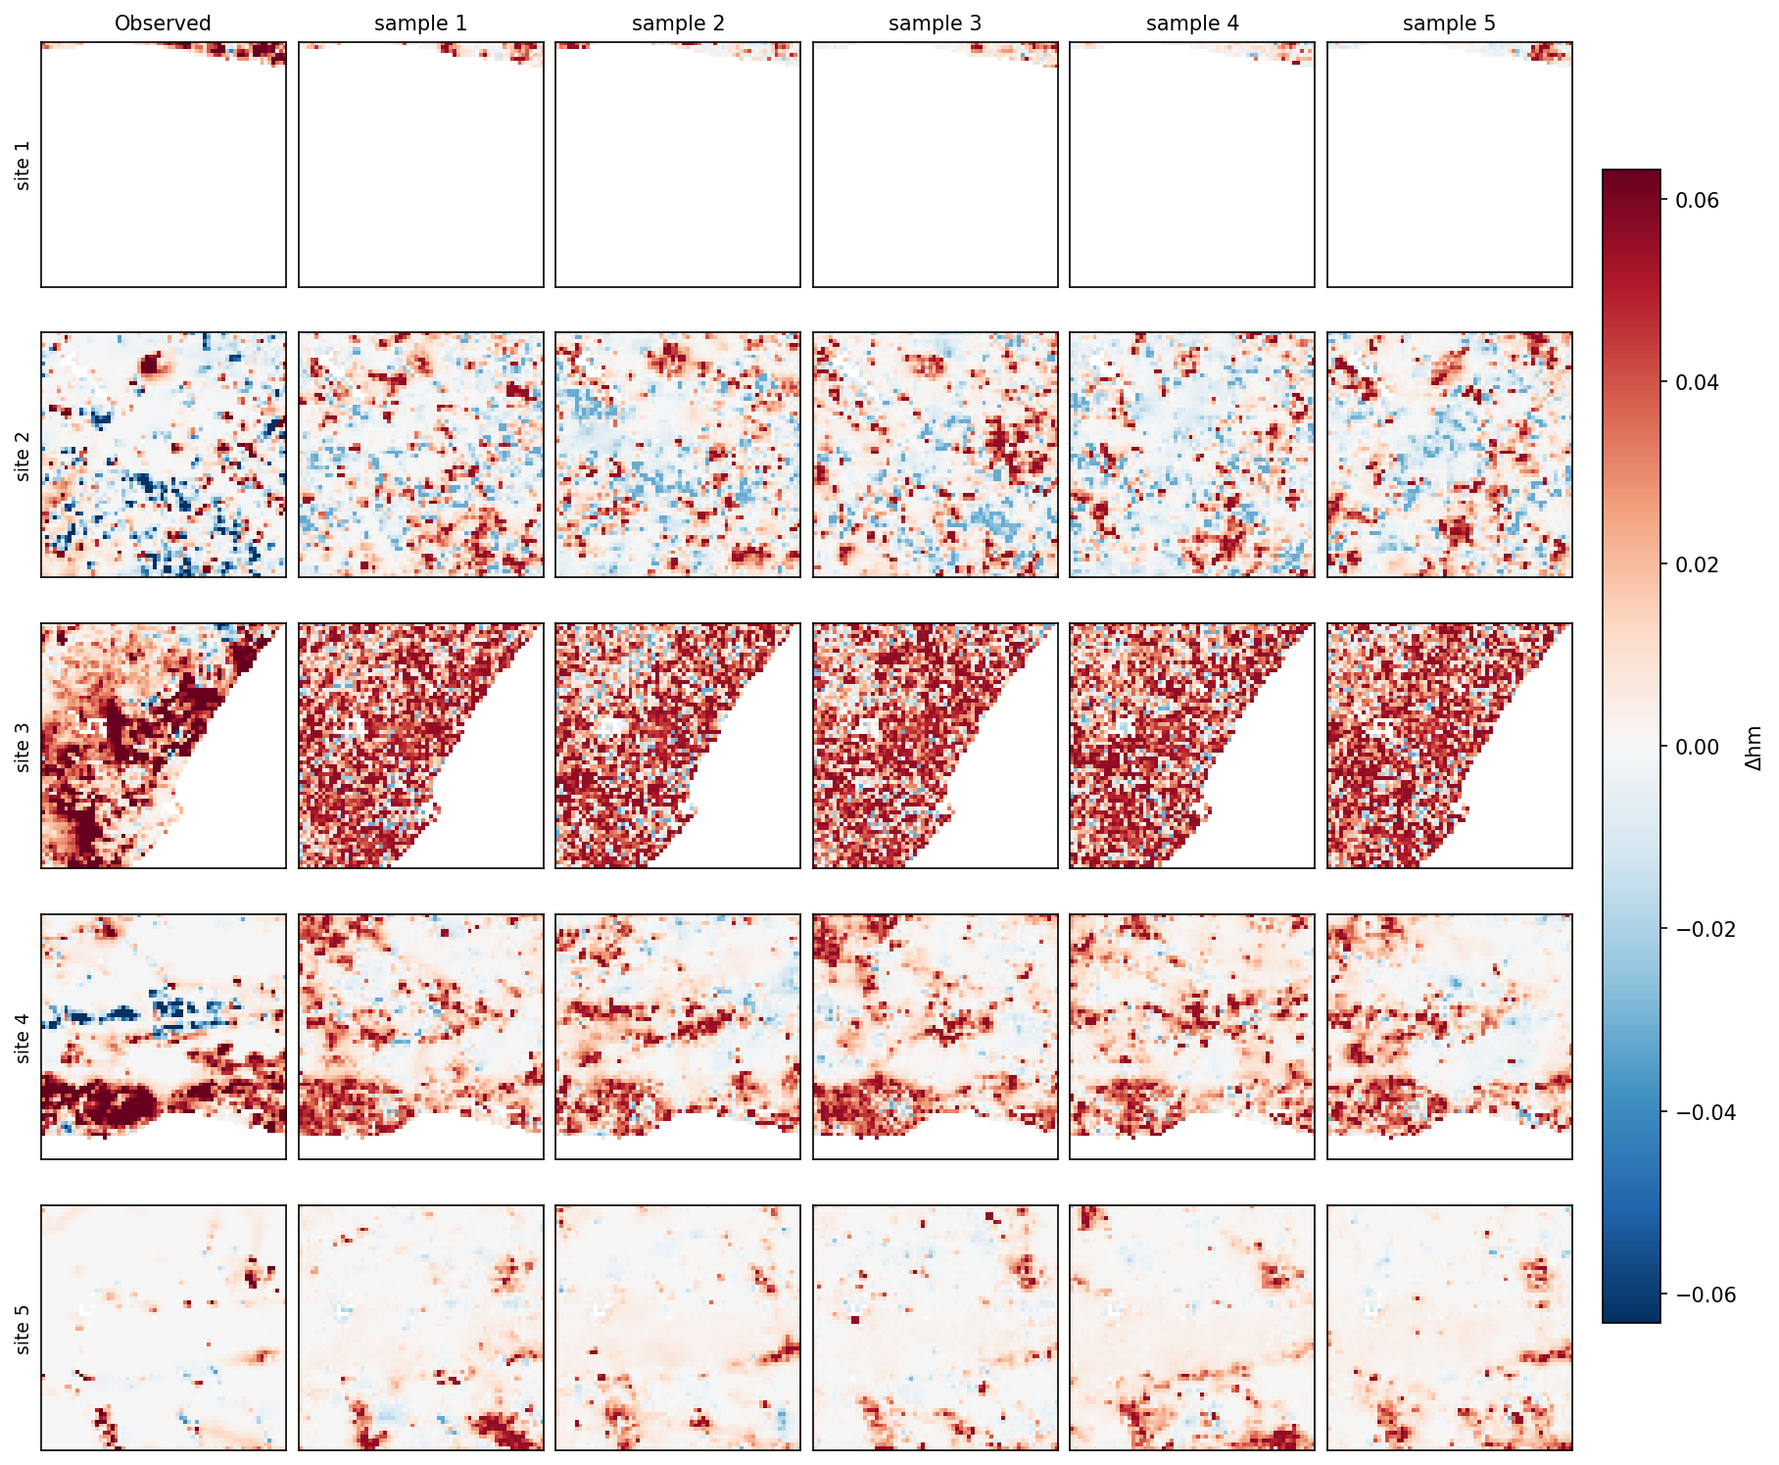
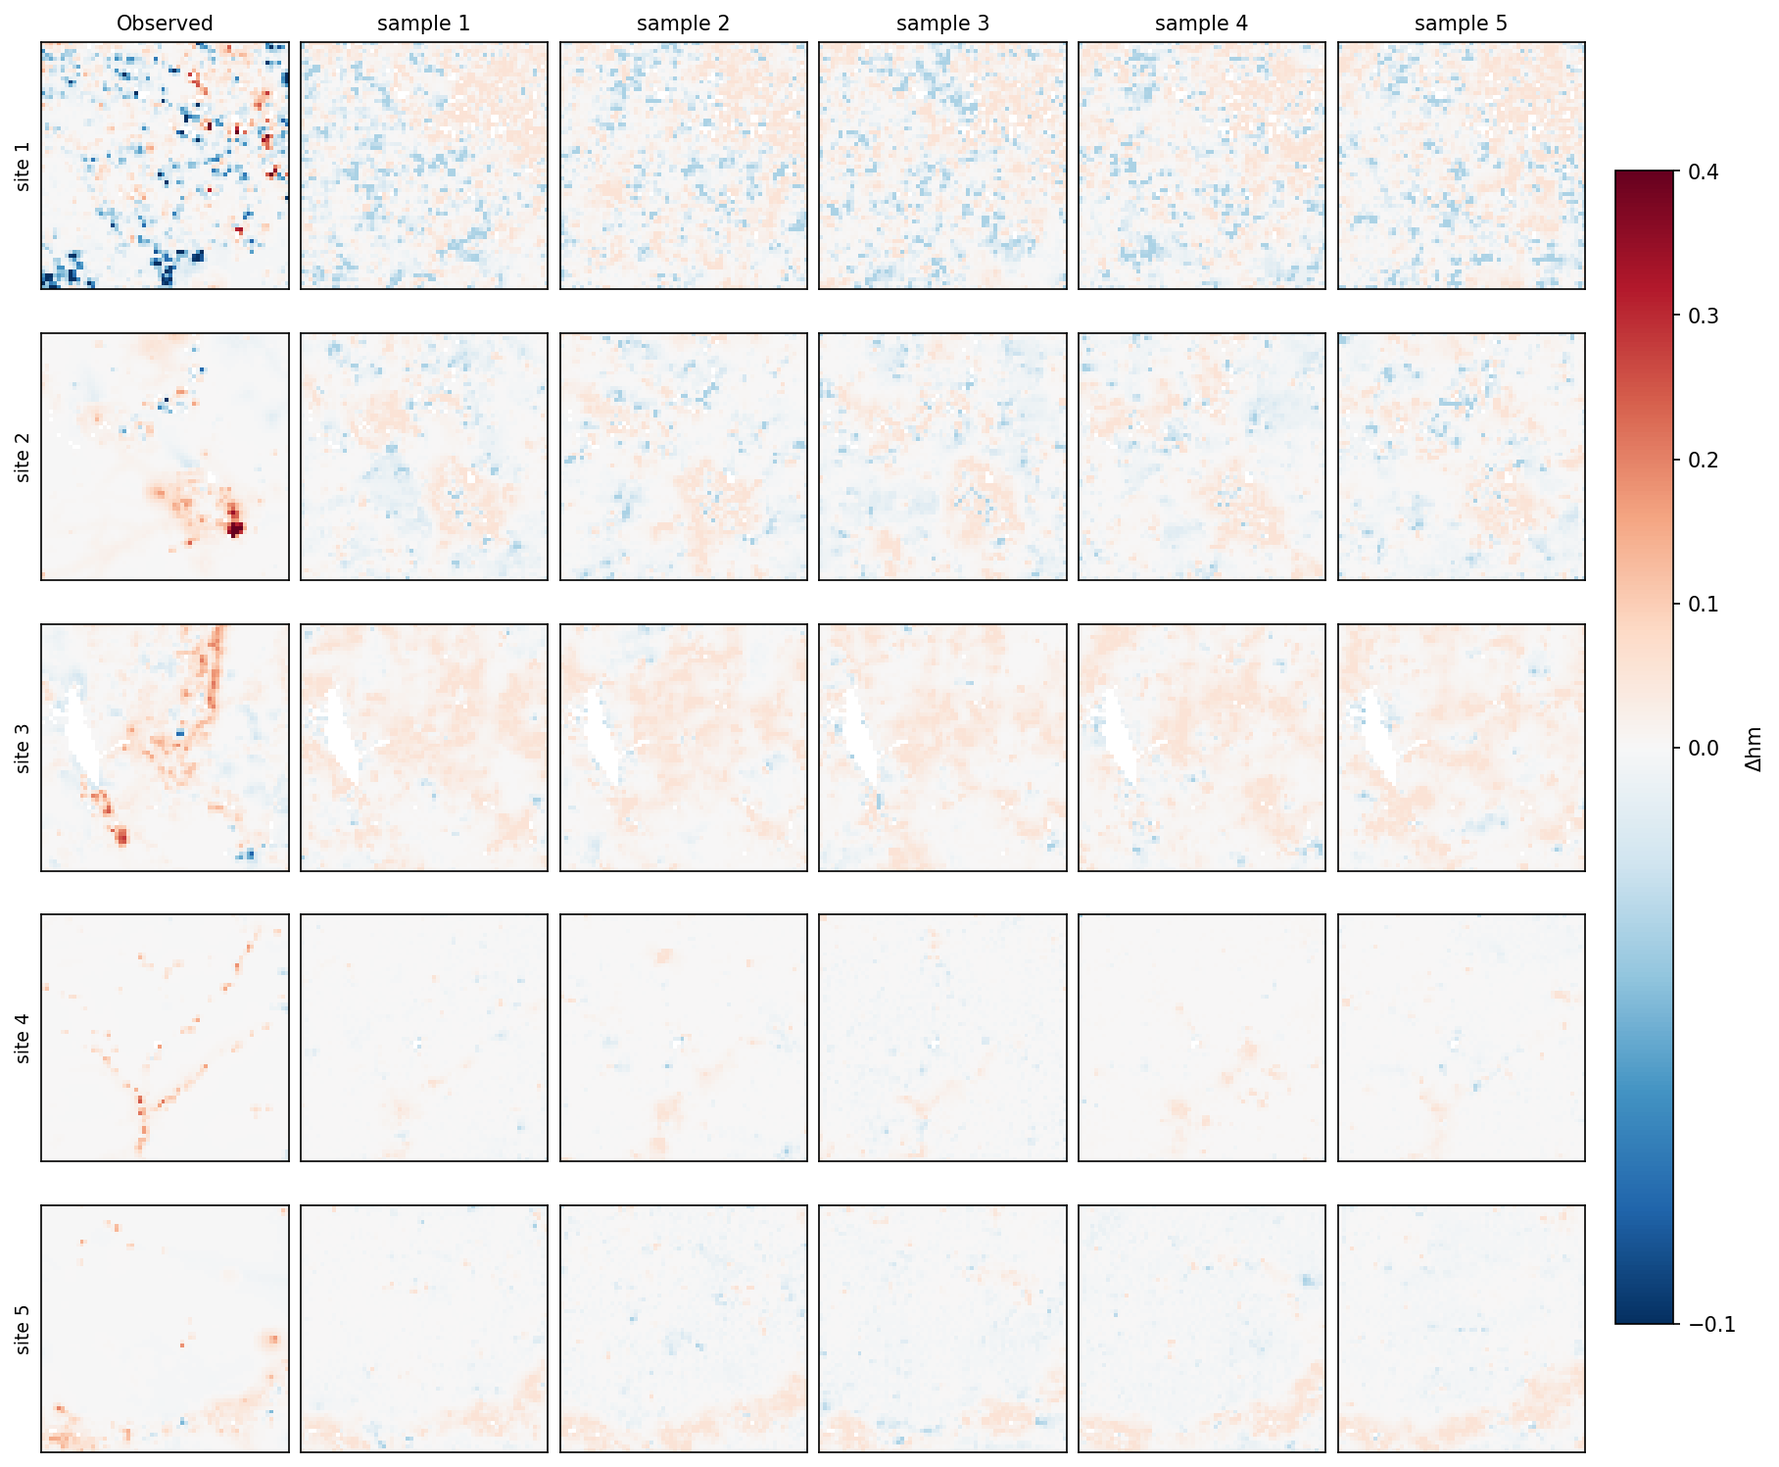
feat: add precomputed IDW spatial-context channels to diffusion conditioning
Extend the component variable list with inverse-distance weighted HM channels (idw15, idw51) when target_mode='delta_20yr'. The IDW rasters are precomputed via scripts/preprocess_idw.py and live alongside the original HM_AA / component files. Each IDW channel captures neighborhood modification pressure at a different scale (15 km vs 51 km radius) by convolving HM with a 1/distance kernel.

- Update HumanFootprintChipDataset

diff --git a/scripts/torchgeo_dataloader.py b/scripts/torchgeo_dataloader.py
@@ -44,6 +44,38 @@ static_files = [
 import numpy as np
 import rasterio
 
+
+def _make_idw_kernels(sizes=(15, 51), decay=1.0):
+    """Build inverse-distance weighting kernels w(d) = 1 / (d^decay + ε).
+
+    HM is continuous in [0, 1] so a binary "distance to feature" doesn't
+    apply. Instead we treat each pixel's HM value as the *intensity* of
+    modification at that location and ask, for every target pixel, "how
+    much modification surrounds you, weighted by 1/distance?". Convolving
+    HM with these kernels gives a per-pixel neighborhood-IDW signal that
+    captures proximity to roads / urban / infrastructure (which are the
+    dominant contributors to HM_AA).
+
+    Two scales by default: a "near" kernel (radius 15 ≈ 15 km at 1 km/px
+    grid) for immediate-neighborhood pressure, and a "far" kernel
+    (radius 51) for regional context.
+    """
+    kernels = []
+    for size in sizes:
+        half = int(size)
+        full = 2 * half + 1
+        y, x = np.ogrid[-half:half + 1, -half:half + 1]
+        d = np.sqrt(x * x + y * y).astype(np.float32)
+        eps = 1e-6
+        w = 1.0 / (d ** decay + eps)
+        w[half, half] = 0.0  # exclude self
+        s = w.sum()
+        if s > 0:
+            w = w / s
+        kernels.append(w)
+    return kernels
+
+
 class HumanFootprintChipDataset(torch.utils.data.Dataset):
     """
     Yields chips for ConvLSTM training (multi-horizon forecasting):
@@ -79,6 +111,10 @@ class HumanFootprintChipDataset(torch.utils.data.Dataset):
         target_mode="absolute_4horizons",
         restrict_to_region=None,
         dhm_stats_cache=None,
+        add_idw=None,
+        idw_kernel_radii=(15, 51),
+        idw_decay=1.0,
+        idw_stats_cache=None,
     ):
         self.hm_files = hm_files
         self.component_files = component_files
@@ -95,6 +131,17 @@ class HumanFootprintChipDataset(torch.utils.data.Dataset):
         self.target_mode = target_mode
         self.restrict_to_region = restrict_to_region
         self.dhm_stats_cache = dhm_stats_cache
+
+        # IDW spatial-context channels: defaults on for delta_20yr, off otherwise.
+        # IDW rasters must be precomputed via scripts/preprocess_idw.py and live
+        # alongside the HM_AA / component rasters.
+        if add_idw is None:
+            add_idw = (target_mode == "delta_20yr")
+        self.add_idw = bool(add_idw)
+        self.idw_kernel_radii = tuple(int(r) for r in idw_kernel_radii) if self.add_idw else ()
+        self.idw_decay = float(idw_decay)  # tracked for cache compatibility only
+        self.idw_stats_cache = idw_stats_cache  # unused under precompute path
+        self.n_idw_channels = len(self.idw_kernel_radii)
 
         if target_mode == "delta_20yr":
             if list(end_year_options) != [2000] or use_temporal_sampling \
@@ -120,7 +167,19 @@ class HumanFootprintChipDataset(torch.utils.data.Dataset):
         self.include_components = bool(include_components)
         self._hm_files = list(hm_files)
         self._static_files = list(static_files if static_channels is None else static_files[:int(static_channels)])
-        self._comp_files = {y: list(component_files.get(y, [])) for y in years} if self.include_components else {y: [] for y in years}
+        # Effective component variable list (extended with precomputed IDW vars
+        # when add_idw=True). The IDW rasters get the same per-variable
+        # normalization treatment as the original HM components.
+        self.hm_vars = list(HM_VARS)
+        if self.add_idw and self.idw_kernel_radii:
+            self.hm_vars = self.hm_vars + [f"idw{r}" for r in self.idw_kernel_radii]
+        if self.include_components:
+            self._comp_files = {
+                y: [_resolve(f"HM_{y}_{v}_1000.tiff") for v in self.hm_vars]
+                for y in years
+            }
+        else:
+            self._comp_files = {y: [] for y in years}
         # Split mask for train/val/test separation
         self.split_mask_file = split_mask_file
         self.split_value = split_value  # 1=train, 2=val, 3=test, 4=calib
@@ -190,12 +249,14 @@ class HumanFootprintChipDataset(torch.utils.data.Dataset):
         self.elev_mean = self.static_means[0] if self.static_means else 0.0
         self.elev_std = self.static_stds[0] if self.static_stds else 1.0
         
-        # Component stats (per variable) - critical for GDP/population which have different scales
+        # Component stats (per variable) - critical for GDP/population which have different scales.
+        # Note: self.hm_vars may include precomputed IDW vars (idw15, idw51) when add_idw=True;
+        # those go through the same per-variable normalization pipeline.
         self.comp_means = {}
         self.comp_stds = {}
         if self.include_components:
             print("Computing per-variable normalization statistics for components...")
-            for var_idx, var_name in enumerate(HM_VARS):
+            for var_idx, var_name in enumerate(self.hm_vars):
                 var_samples = []
                 for year in years:
                     comp_file = self._comp_files[year][var_idx]
@@ -219,7 +280,7 @@ class HumanFootprintChipDataset(torch.utils.data.Dataset):
                     self.comp_means[var_name] = 0.0
                     self.comp_stds[var_name] = 1.0
             print("Component normalization stats:")
-            for var_name in HM_VARS:
+            for var_name in self.hm_vars:
                 print(f"  {var_name}: mean={self.comp_means[var_name]:.6e}, std={self.comp_stds[var_name]:.6e}")
 
         # Δhm stats (only when target_mode == "delta_20yr")
@@ -227,6 +288,7 @@ class HumanFootprintChipDataset(torch.utils.data.Dataset):
         self.dhm_std = 1.0
         if self.target_mode == "delta_20yr":
             self._compute_dhm_stats(rng, stat_samples)
+
 
         # Map fixed years to indices in the stacked timeline
         year_to_idx = {y: i for i, y in enumerate(years)}
@@ -300,6 +362,8 @@ class HumanFootprintChipDataset(torch.utils.data.Dataset):
         else:
             self.chip_positions = None
 
+        # C_comp already includes IDW vars when add_idw is True (they're added
+        # to self.hm_vars and self._comp_files above).
         self.C_comp = len(self._comp_files[years[0]]) if self.include_components else 0
         self.C_dyn = 1 + self.C_comp
         self.C_static = len(self._static_files)
@@ -441,16 +505,19 @@ class HumanFootprintChipDataset(torch.utils.data.Dataset):
             for t_idx, year in zip(input_t_idxs, input_years):
                 channels = []
                 # Base HM for this timestep
-                arr_hm = self._hm_srcs[t_idx].read(1, window=rasterio.windows.Window(j, i, self.chip_size, self.chip_size), masked=True).filled(np.nan)
+                arr_hm = self._hm_srcs[t_idx].read(
+                    1, window=rasterio.windows.Window(j, i, self.chip_size, self.chip_size),
+                    masked=True,
+                ).filled(np.nan)
                 # Data is already in [0, 1] range
                 arr_hm = (arr_hm - self.hm_mean) / self.hm_std
                 channels.append(arr_hm)
-                # HM covariates for the same year
+                # HM covariates (originals + precomputed IDW vars when add_idw)
                 if self.include_components and self._comp_srcs.get(year, []):
                     for var_idx, src in enumerate(self._comp_srcs[year]):
                         carr = src.read(1, window=rasterio.windows.Window(j, i, self.chip_size, self.chip_size), masked=True).filled(np.nan)
-                        var_name = HM_VARS[var_idx]
-                        # Replace NaN with 0 BEFORE normalization for all HM components
+                        var_name = self.hm_vars[var_idx]
+                        # Replace NaN with 0 BEFORE normalization for all components
                         # Interpretation: missing data means "no pressure/activity"
                         carr = np.nan_to_num(carr, nan=0.0)
                         # Use per-variable normalization (critical for GDP/population)
@@ -596,6 +663,10 @@ def get_dataloader(
     target_mode="absolute_4horizons",
     restrict_to_region=None,
     dhm_stats_cache=None,
+    add_idw=None,
+    idw_kernel_radii=(15, 51),
+    idw_decay=1.0,
+    idw_stats_cache=None,
 ):
     """
     Create a DataLoader for the Human Footprint dataset.
@@ -608,6 +679,11 @@ def get_dataloader(
             overlaps the rasterized region are kept.
         dhm_stats_cache: Optional path to cache (mean, std) of Δhm; ignored unless
             target_mode == "delta_20yr".
+        add_idw: Whether to add IDW(HM) channels per timestep (default: True for
+            delta_20yr, False otherwise).
+        idw_kernel_radii: Per-channel kernel radii (pixels). Default (15, 51).
+        idw_decay: IDW kernel decay exponent. Default 1.0 (1/d weighting).
+        idw_stats_cache: Optional JSON path to cache per-kernel mean/std.
     """
     ds = HumanFootprintChipDataset(
         hm_files,
@@ -632,6 +708,10 @@ def get_dataloader(
         target_mode=target_mode,
         restrict_to_region=restrict_to_region,
         dhm_stats_cache=dhm_stats_cache,
+        add_idw=add_idw,
+        idw_kernel_radii=idw_kernel_radii,
+        idw_decay=idw_decay,
+        idw_stats_cache=idw_stats_cache,
     )
     return DataLoader(
         ds,

diff --git a/scripts/preprocess_idw.py b/scripts/preprocess_idw.py
@@ -1,0 +1,108 @@
+"""Precompute inverse-distance-weighted HM rasters.
+
+For each available HM_YEAR_AA_1000.tiff and each requested kernel radius,
+produces a `HM_YEAR_idw{radius}_1000.tiff` raster with the same grid /
+projection as the input. Each pixel holds a per-pixel IDW-weighted average
+of HM in its neighborhood:
+
+    IDW(p) = Σ_q w(d(p, q)) * HM(q)         where w(d) = 1 / (d^k + ε)
+             ─────────────────────                kernel weights are
+                Σ_q w(d(p, q))                    normalized to sum to 1
+
+Self-distance (d=0) is excluded so a pixel's own HM does not contaminate
+its neighborhood signal — the IDW value answers "how surrounded is this
+pixel by modified land?", not "what is this pixel's own modification?".
+
+NaN is treated as 0 inside the convolution (interpretation: ocean / no
+data contributes no modification pressure), then the original NaN mask is
+restored on the output so the IDW raster has the same valid-pixel mask
+as the source.
+
+Usage:
+    python scripts/preprocess_idw.py --radii 15 51 --years 1990 1995 2000 2005 2010 2015 2020
+"""
+from __future__ import annotations
+
+import argparse
+import os
+import sys
+import time
+from pathlib import Path
+
+PROJECT_ROOT = Path(__file__).resolve().parent.parent
+sys.path.insert(0, str(PROJECT_ROOT / "scripts"))
+
+import numpy as np
+import rasterio
+from scipy.signal import fftconvolve
+
+from torchgeo_dataloader import _resolve, _make_idw_kernels
+
+
+def parse_args():
+    p = argparse.ArgumentParser()
+    p.add_argument("--years", type=int, nargs="+",
+                   default=[1990, 1995, 2000, 2005, 2010, 2015, 2020])
+    p.add_argument("--radii", type=int, nargs="+", default=[15, 51])
+    p.add_argument("--decay", type=float, default=1.0)
+    p.add_argument("--out_dir", default="data/raw/hm_global",
+                   help="Where to write the IDW rasters. Defaults to the same dir "
+                        "as the source HM_AA files.")
+    p.add_argument("--overwrite", action="store_true")
+    return p.parse_args()
+
+
+def compute_idw(hm: np.ndarray, kernel: np.ndarray) -> np.ndarray:
+    """Convolve HM with the IDW kernel; restore NaN mask of the input."""
+    nan_mask = ~np.isfinite(hm)
+    hm_filled = np.where(nan_mask, 0.0, hm).astype(np.float32)
+    idw = fftconvolve(hm_filled, kernel, mode="same").astype(np.float32)
+    idw[nan_mask] = np.nan
+    return idw
+
+
+def main():
+    args = parse_args()
+    kernels = _make_idw_kernels(tuple(args.radii), args.decay)
+    print(f"Built {len(kernels)} kernels: "
+          + ", ".join(f"radius={r} (size {k.shape[0]}×{k.shape[0]})"
+                      for r, k in zip(args.radii, kernels)))
+
+    out_dir = Path(args.out_dir)
+    out_dir.mkdir(parents=True, exist_ok=True)
+    total_start = time.time()
+
+    for year in args.years:
+        src_path = _resolve(f"HM_{year}_AA_1000.tiff")
+        if not os.path.exists(src_path):
+            print(f"⚠ skipping {year}: source not found at {src_path}")
+            continue
+        print(f"\n── {year} ── source: {src_path}")
+        with rasterio.open(src_path) as src:
+            hm = src.read(1, masked=True).filled(np.nan).astype(np.float32)
+            profile = src.profile.copy()
+        profile.update(dtype="float32", compress="deflate", predictor=2, tiled=True)
+
+        for radius, kernel in zip(args.radii, kernels):
+            out_path = out_dir / f"HM_{year}_idw{radius}_1000.tiff"
+            if out_path.exists() and not args.overwrite:
+                print(f"  ✓ {out_path.name} already exists; skipping (use --overwrite)")
+                continue
+            t0 = time.time()
+            print(f"  computing IDW (radius={radius}, kernel {kernel.shape[0]}×{kernel.shape[0]})...",
+                  flush=True)
+            idw = compute_idw(hm, kernel)
+            elapsed = time.time() - t0
+            print(f"    convolution done in {elapsed:.1f}s; finite={np.isfinite(idw).sum():,} / {idw.size:,}, "
+                  f"min={np.nanmin(idw):.4f}, max={np.nanmax(idw):.4f}, "
+                  f"mean={np.nanmean(idw):.4f}",
+                  flush=True)
+            with rasterio.open(out_path, "w", **profile) as dst:
+                dst.write(idw, 1)
+            print(f"    wrote {out_path}", flush=True)
+
+    print(f"\nTotal preprocessing time: {time.time() - total_start:.1f}s")
+
+
+if __name__ == "__main__":
+    main()

diff --git a/scripts/predict_region_diffusion.py b/scripts/predict_region_diffusion.py
@@ -34,7 +34,7 @@ from pyproj import Transformer
 from scipy.ndimage import distance_transform_edt
 
 from torchgeo_dataloader import (
-    hm_files, component_files, static_files, years, HM_VARS,
+    hm_files, component_files, static_files, years,
 )
 from src.models.diffusion_lightning import DiffusionLightningModule
 
@@ -91,7 +91,7 @@ def quick_stats(stat_samples=512, chip_size=64):
     ds = HumanFootprintChipDataset(
         hm_files, component_files, static_files,
         chip_size=chip_size, stat_samples=stat_samples,
-        target_mode="absolute_4horizons",
+        target_mode="delta_20yr",  # match training mode (extends hm_vars with IDW)
     )
     return dict(
         hm_mean=float(ds.hm_mean), hm_std=float(ds.hm_std),
@@ -99,6 +99,8 @@ def quick_stats(stat_samples=512, chip_size=64):
         comp_stds={k: float(v) for k, v in ds.comp_stds.items()},
         static_means=[float(x) for x in ds.static_means],
         static_stds=[float(x) for x in ds.static_stds],
+        hm_vars=list(ds.hm_vars),
+        comp_files=dict(ds._comp_files),
     )
 
 
@@ -132,6 +134,11 @@ def main():
     hm_mean, hm_std = stats["hm_mean"], stats["hm_std"]
     comp_means, comp_stds = stats["comp_means"], stats["comp_stds"]
     static_means, static_stds = stats["static_means"], stats["static_stds"]
+    # The dataset extends hm_vars with idw15/idw51 when delta_20yr; use that list
+    # both for normalization keys AND to know which raster files to open.
+    hm_vars_used = stats["hm_vars"]
+    comp_files_used = stats["comp_files"]
+    print(f"Component vars in conditioning: {hm_vars_used}")
 
     base_year = 2000
     input_years = [1990, 1995, 2000]
@@ -172,7 +179,8 @@ def main():
 
     # Open all rasters
     hm_srcs = [rasterio.open(p) for p in hm_files]
-    comp_srcs = {y: [rasterio.open(p) for p in component_files[y]] for y in years}
+    # Use the extended component file list from the dataset (includes IDW vars).
+    comp_srcs = {y: [rasterio.open(p) for p in comp_files_used[y]] for y in years}
     stat_srcs = [rasterio.open(p) for p in static_files]
     nan_to_zero_static = {0, 4, 5, 6}
 
@@ -227,7 +235,8 @@ def main():
                 channels = []
                 arr_hm = hm_srcs[t_idx].read(1, window=win, masked=True).filled(np.nan)
                 channels.append((arr_hm - hm_mean) / hm_std)
-                for var_idx, (var_name, src) in enumerate(zip(HM_VARS, comp_srcs[y])):
+                # Components (originals + precomputed IDW vars when delta_20yr)
+                for var_idx, (var_name, src) in enumerate(zip(hm_vars_used, comp_srcs[y])):
                     carr = src.read(1, window=win, masked=True).filled(np.nan)
                     carr = np.nan_to_num(carr, nan=0.0)
                     channels.append((carr - comp_means[var_name]) / comp_stds[var_name])

diff --git a/scripts/evaluate_diffusion.py b/scripts/evaluate_diffusion.py
@@ -298,20 +298,19 @@ def sample_at_sites(args, n_sites, n_samples, num_inference_steps):
     return sites
 
 
-def plot_sample_grid(sites, out_path):
-    """N rows (sites) × (1 + n_samples) cols (observed + samples)."""
+def plot_sample_grid(sites, out_path, vmin=-0.1, vmax=0.4):
+    """N rows (sites) × (1 + n_samples) cols (observed + samples).
+
+    Color scale is fixed across all panels to make sample-to-sample and
+    site-to-site comparisons honest. Defaults span the meaningful Δhm range:
+    a small loss of modification on the negative side, a larger gain on the
+    positive side (most change in this dataset is positive).
+    """
     n_sites = len(sites)
     n_samples = sites[0]["samples"].shape[0]
 
     masked_obs = [np.where(s["valid_mask"], s["observed"], np.nan) for s in sites]
     masked_samp = [np.where(s["valid_mask"][None], s["samples"], np.nan) for s in sites]
-    pile = np.concatenate([a[np.isfinite(a)] for a in masked_obs] +
-                          [a[np.isfinite(a)] for a in masked_samp])
-    if pile.size == 0:
-        vmin, vmax = -0.05, 0.05
-    else:
-        vmax = float(max(abs(np.percentile(pile, 1)), abs(np.percentile(pile, 99))))
-        vmin = -vmax
 
     fig, axes = plt.subplots(
         n_sites, n_samples + 1,
